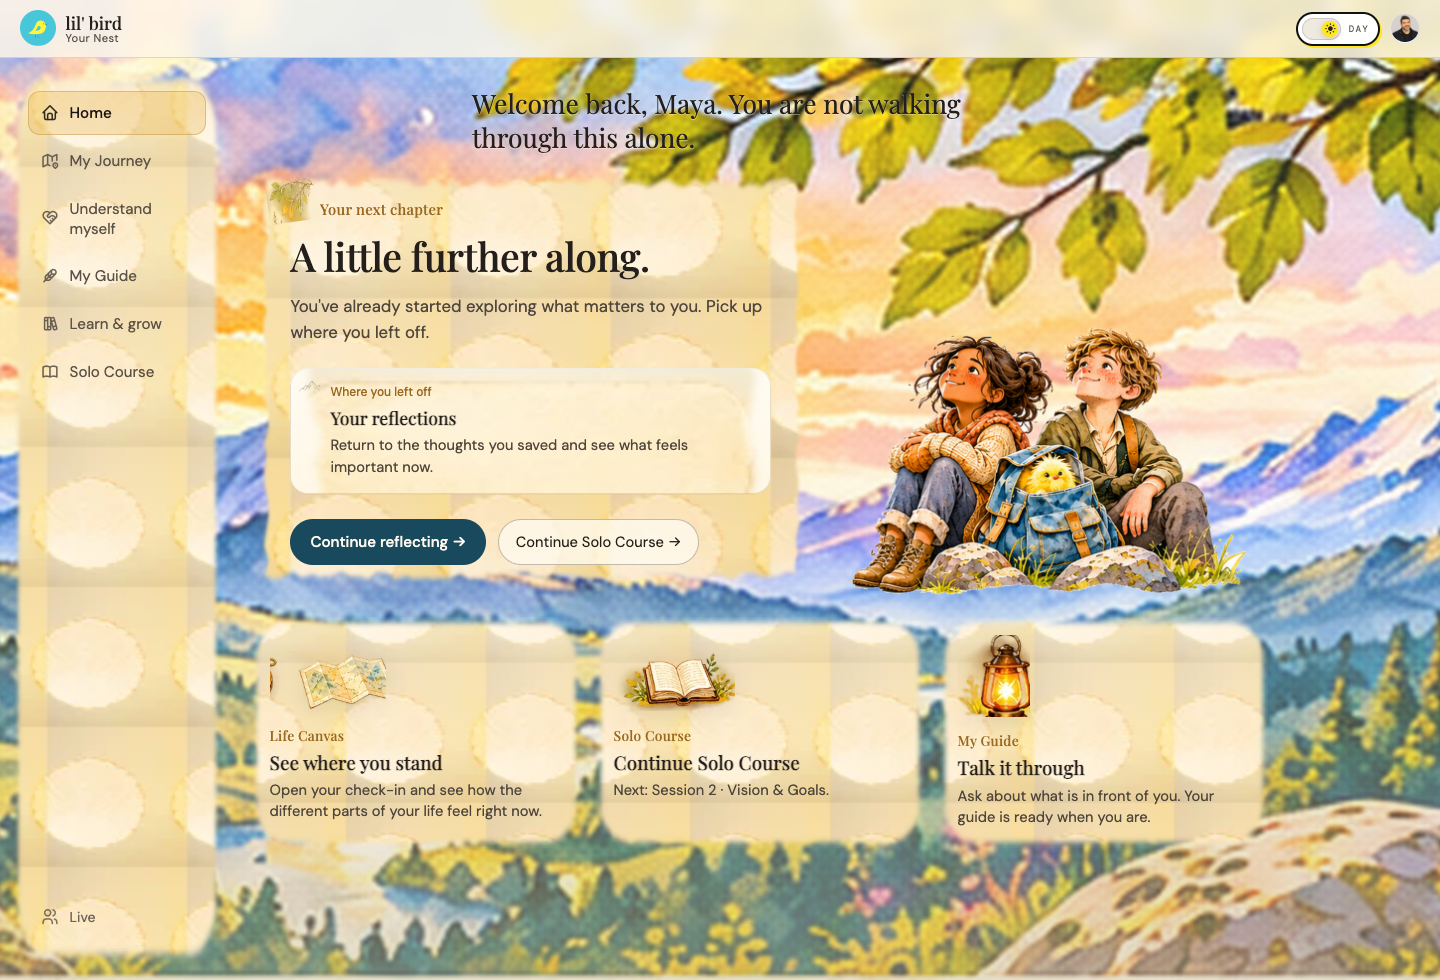
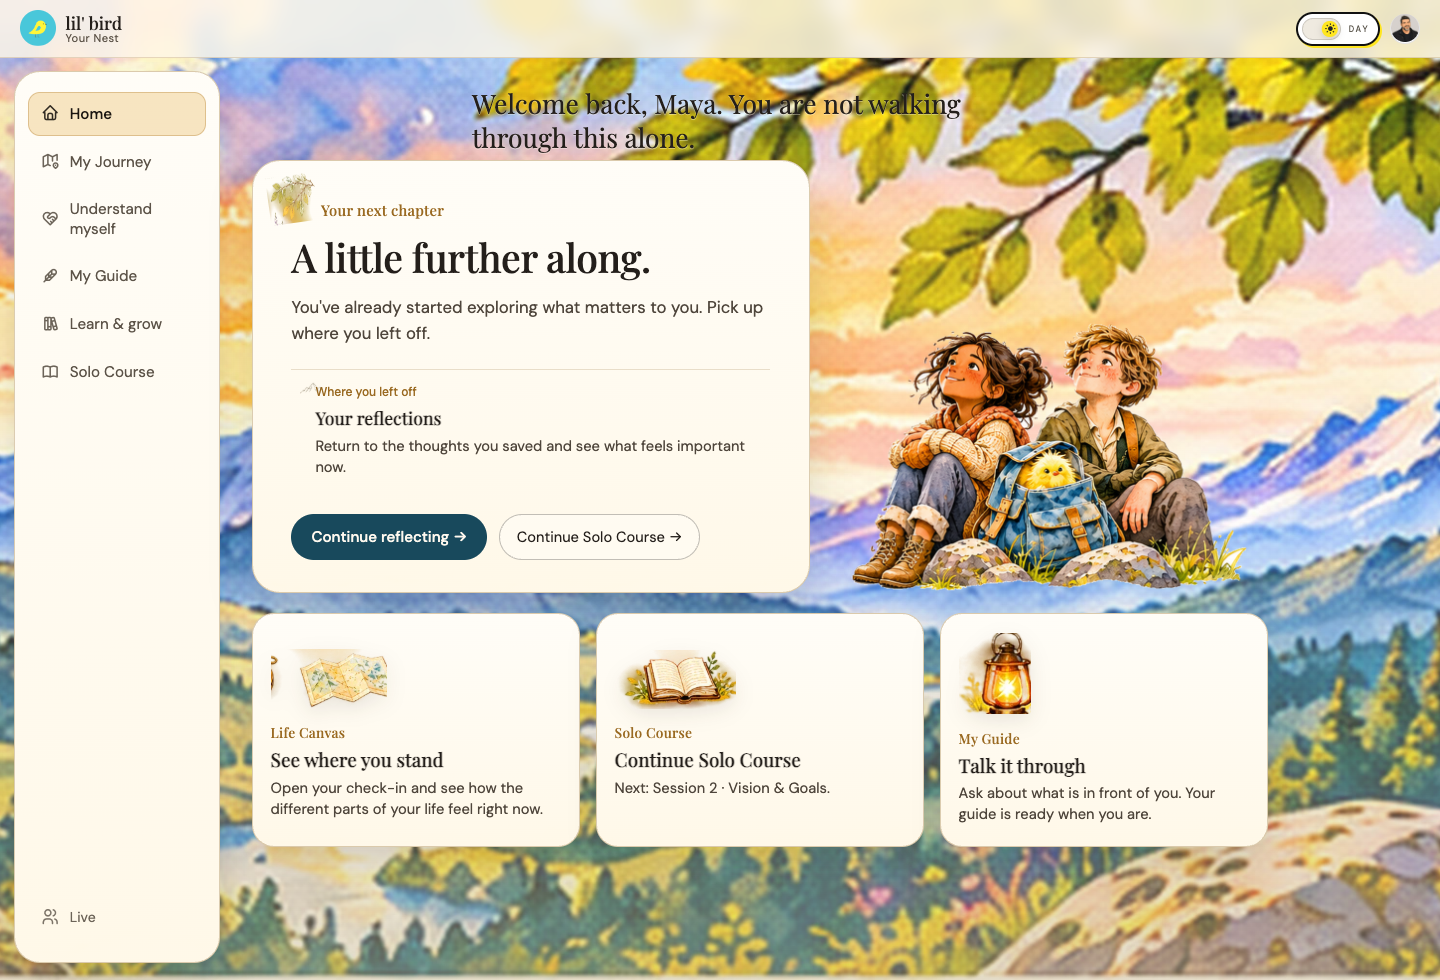
Fix parchment tiling artifacts and mobile landscape gap for Phase 1C.
Stop tiling cream-grain stamps and stretching card masks; use opaque parchment fills with a single paper-sample cover, and size the mobile valley with cover so companions sit in the illustrated world.

diff --git a/css/lilbird-nest-world.css b/css/lilbird-nest-world.css
@@ -8,25 +8,20 @@
   /* Nov 5 replacements — opaque panoramas; companions are separate RGBA cutouts */
   --world-day: url("/nest/assets/lilbird-kit/backgrounds/nest-valley-day.webp");
   --world-night: url("/nest/assets/lilbird-kit/backgrounds/nest-valley-night.webp");
-  --paper-grain: url("/nest/assets/lilbird-kit/textures/cream-grain.webp");
-  --paper-fill: url("/nest/assets/lilbird-kit/textures/cream-grain.webp");
-  --paper-panel-fill: url("/nest/assets/lilbird-kit/textures/paper-sample.webp");
-  --paper-hero: url("/nest/assets/lilbird-kit/panels/parchment-hero-large.webp");
-  --paper-hero-mask: url("/nest/assets/lilbird-kit/panels/parchment-hero-large.webp");
-  --paper-inset: url("/nest/assets/lilbird-kit/panels/parchment-hero-small.webp");
-  --paper-card: url("/nest/assets/lilbird-kit/panels/paper-card-a.webp");
-  --paper-card-b: url("/nest/assets/lilbird-kit/panels/paper-card-b.webp");
-  --paper-card-c: url("/nest/assets/lilbird-kit/panels/paper-card-c.webp");
-  --paper-card-portrait: url("/nest/assets/lilbird-kit/panels/parchment-card-portrait.webp");
-  --paper-rail: url("/nest/assets/lilbird-kit/panels/paper-sidebar-tall.webp");
-  --paper-rail-fill: url("/nest/assets/lilbird-kit/textures/paper-sample.webp");
+  /* cream-grain.webp is a ~57px circular stamp — never tile it as a fill */
   --parchment: #fff8e8;
   --parchment-raised: #fffcf4;
-  --parchment-inset: #fff6e2;
+  --parchment-deep: #f3e4c4;
+  --parchment-inset: #fffaf0;
   --parchment-ink: #241f1b;
   --parchment-muted: #4f463c;
   --parchment-accent: #9a6a22;
-  --parchment-border: rgba(176, 146, 100, 0.5);
+  --parchment-border: rgba(176, 146, 100, 0.45);
+  /* Opaque wash + one cover of paper-sample (never tile cream-grain.webp) */
+  --parchment-grain: url("/nest/assets/lilbird-kit/textures/paper-sample.webp");
+  --parchment-surface:
+    linear-gradient(180deg, rgba(255, 253, 248, 0.94) 0%, rgba(255, 248, 232, 0.9) 100%),
+    var(--parchment-grain);
   --lb-bg: #c9b892;
   --lb-surface: rgba(255, 248, 232, 0.94);
   --lb-surface-raised: rgba(255, 252, 244, 0.97);
@@ -72,16 +67,12 @@ html[data-theme="dark"] .nest-page.nest-world {
   background-size: auto, cover;
 }
 
-/* Soft grain only — no filter “sharpening” of low-res landscape art */
+/* Kill Phase-1 paper-grain overlay entirely in world mode */
 .nest-page.nest-world::before {
-  opacity: 0.14;
-  background-image: var(--paper-grain);
-  background-size: 120px 120px;
-  mix-blend-mode: soft-light;
-}
-html[data-theme="dark"] .nest-page.nest-world::before {
-  opacity: 0.08;
-  mix-blend-mode: soft-light;
+  content: none !important;
+  display: none !important;
+  background: none !important;
+  opacity: 0 !important;
 }
 
 /* ── Decorative world layers ──
@@ -134,39 +125,28 @@ html[data-theme="dark"] .nest-world .nest-greeting {
     0 0 18px rgba(15, 36, 51, 0.55);
 }
 
-/* ── Rail as tall parchment panel ── */
+/* ── Rail: opaque warm parchment body (no tile / no full-card mask) ── */
 .nest-world .nest-rail {
   margin: 0.85rem 0 1.25rem 0.85rem;
-  padding: 1.25rem 0.85rem 1.5rem 0.9rem;
-  border-radius: 0;
-  border: 0;
-  background-color: #fff6e2;
-  background-image:
-    linear-gradient(180deg, rgba(255, 252, 244, 0.35), rgba(255, 244, 220, 0.2)),
-    var(--paper-fill),
-    var(--paper-rail);
-  background-size: auto, 140px 140px, 100% 100%;
-  background-position: center, center, center;
-  background-repeat: no-repeat, repeat, no-repeat;
-  box-shadow: 0 18px 36px rgba(40, 28, 14, 0.16);
+  padding: 1.2rem 0.8rem 1.45rem 0.85rem;
+  border-radius: 26px;
+  border: 1px solid var(--parchment-border);
+  background-color: var(--parchment) !important;
+  background-image: var(--parchment-surface) !important;
+  background-repeat: no-repeat !important;
+  background-size: auto, cover !important;
+  background-position: center, center !important;
+  background-blend-mode: normal, soft-light;
+  box-shadow: 0 16px 34px rgba(40, 28, 14, 0.14);
   height: calc(100vh - 88px);
-  border-right: 0;
+  border-right: 1px solid var(--parchment-border);
   color: var(--parchment-ink);
-  -webkit-mask-image: var(--paper-rail);
-  mask-image: var(--paper-rail);
-  -webkit-mask-size: 100% 100%;
-  mask-size: 100% 100%;
-  -webkit-mask-repeat: no-repeat;
-  mask-repeat: no-repeat;
-  -webkit-mask-position: center;
-  mask-position: center;
+  -webkit-mask-image: none !important;
+  mask-image: none !important;
 }
 html[data-theme="dark"] .nest-world .nest-rail {
-  background-color: #fff4dc;
-  background-image:
-    linear-gradient(180deg, rgba(255, 250, 236, 0.4), rgba(244, 228, 198, 0.28)),
-    var(--paper-fill),
-    var(--paper-rail);
+  background-color: var(--parchment) !important;
+  background-image: var(--parchment-surface) !important;
   color: var(--parchment-ink);
 }
 html[data-theme="dark"] .nest-world .nest-rail .rail-link,
@@ -202,35 +182,23 @@ html[data-theme="dark"] .nest-world .nest-rail .rail-link.dash-tab.active {
   min-height: 0;
   margin: 0;
   padding: clamp(1.55rem, 3.2vw, 2.35rem) clamp(1.45rem, 3vw, 2.4rem) clamp(1.4rem, 2.8vw, 2rem);
-  border-radius: 0;
-  border: 0;
-  background-color: #fff5df;
-  background-image:
-    linear-gradient(160deg, rgba(255, 252, 244, 0.42) 0%, rgba(255, 240, 210, 0.18) 55%, rgba(244, 220, 180, 0.28) 100%),
-    var(--paper-fill),
-    var(--paper-hero);
-  background-size: auto, 160px 160px, 100% 100%;
-  background-position: center, center, center;
-  background-repeat: no-repeat, repeat, no-repeat;
-  box-shadow: 0 22px 44px rgba(40, 28, 14, 0.18);
+  border-radius: 28px;
+  border: 1px solid var(--parchment-border);
+  background-color: var(--parchment) !important;
+  background-image: var(--parchment-surface) !important;
+  background-repeat: no-repeat !important;
+  background-size: auto, cover !important;
+  background-position: center, center !important;
+  background-blend-mode: normal, soft-light;
+  box-shadow: 0 20px 40px rgba(40, 28, 14, 0.15);
   overflow: visible;
   color: var(--parchment-ink);
-  -webkit-mask-image: var(--paper-hero-mask);
-  mask-image: var(--paper-hero-mask);
-  -webkit-mask-size: 100% 100%;
-  mask-size: 100% 100%;
-  -webkit-mask-repeat: no-repeat;
-  mask-repeat: no-repeat;
-  -webkit-mask-position: center;
-  mask-position: center;
+  -webkit-mask-image: none !important;
+  mask-image: none !important;
 }
 html[data-theme="dark"] .nest-world .next-chapter {
-  background-color: #fff2d6;
-  background-image:
-    linear-gradient(160deg, rgba(255, 250, 236, 0.45) 0%, rgba(255, 236, 200, 0.22) 100%),
-    var(--paper-fill),
-    var(--paper-hero);
-  background-size: auto, 160px 160px, 100% 100%;
+  background-color: var(--parchment) !important;
+  background-image: var(--parchment-surface) !important;
   color: var(--parchment-ink);
 }
 
@@ -251,23 +219,16 @@ html[data-theme="dark"] .nest-world .next-chapter {
   padding-left: 1.85rem;
 }
 
-/* Journal inset — soft paper well, not a form field */
+/* Journal inset — ruled note on the same parchment, not a nested SaaS card */
 .nest-world .next-chapter-context {
   position: relative;
   margin: 0.55rem 0 0.2rem;
-  padding: 0.95rem 1.05rem 1rem 1.15rem;
-  background-color: #fffaf0;
-  background-image:
-    linear-gradient(180deg, rgba(255, 252, 244, 0.55), rgba(255, 243, 214, 0.35)),
-    var(--paper-inset);
-  background-size: auto, cover;
-  background-position: center;
+  padding: 0.85rem 0.35rem 0.7rem 0.15rem;
+  background: transparent;
   border: 0;
-  border-radius: 18px;
-  box-shadow:
-    inset 0 1px 0 rgba(255, 255, 255, 0.55),
-    inset 0 0 0 1px rgba(176, 146, 100, 0.28),
-    0 1px 0 rgba(90, 60, 20, 0.04);
+  border-top: 1px solid rgba(176, 146, 100, 0.28);
+  border-radius: 0;
+  box-shadow: none;
   color: var(--parchment-ink);
 }
 .nest-world .next-chapter-context::before {
@@ -354,41 +315,30 @@ html[data-theme="dark"] .nest-companions-night { display: block; }
   gap: 1rem;
 }
 .nest-world .nest-secondary-card {
-  --card-panel: var(--paper-card);
   position: relative;
   padding: 1.15rem 1.1rem 1.25rem;
-  border-radius: 0;
-  border: 0;
-  background-color: #fff5df;
-  background-image:
-    linear-gradient(180deg, rgba(255, 252, 244, 0.4), rgba(255, 240, 210, 0.22)),
-    var(--paper-fill),
-    var(--card-panel);
-  background-size: auto, 140px 140px, 100% 100%;
-  background-position: center, center, center;
-  background-repeat: no-repeat, repeat, no-repeat;
-  box-shadow: 0 14px 32px rgba(40, 28, 14, 0.14);
+  border-radius: 22px;
+  border: 1px solid var(--parchment-border);
+  background-color: var(--parchment) !important;
+  background-image: var(--parchment-surface) !important;
+  background-repeat: no-repeat !important;
+  background-size: auto, cover !important;
+  background-position: center, center !important;
+  background-blend-mode: normal, soft-light;
+  box-shadow: 0 12px 28px rgba(40, 28, 14, 0.12);
   overflow: visible;
   color: var(--parchment-ink);
-  -webkit-mask-image: var(--card-panel);
-  mask-image: var(--card-panel);
-  -webkit-mask-size: 100% 100%;
-  mask-size: 100% 100%;
-  -webkit-mask-repeat: no-repeat;
-  mask-repeat: no-repeat;
+  -webkit-mask-image: none !important;
+  mask-image: none !important;
 }
-.nest-world .nest-secondary-card[data-kind="canvas"] { --card-panel: var(--paper-card); }
-.nest-world .nest-secondary-card[data-kind="solo"] { --card-panel: var(--paper-card-b); }
-.nest-world .nest-secondary-card[data-kind="guide"] { --card-panel: var(--paper-card-c); }
-.nest-world .nest-secondary-card[data-kind="membership"] { --card-panel: var(--paper-card-portrait); }
+.nest-world .nest-secondary-card[data-kind="solo"],
+.nest-world .nest-secondary-card[data-kind="guide"] {
+  background-image: var(--parchment-surface) !important;
+}
 
 html[data-theme="dark"] .nest-world .nest-secondary-card {
-  background-color: #fff2d6;
-  background-image:
-    linear-gradient(180deg, rgba(255, 250, 236, 0.42), rgba(244, 228, 198, 0.28)),
-    var(--paper-fill),
-    var(--card-panel);
-  background-size: auto, 140px 140px, 100% 100%;
+  background-color: var(--parchment) !important;
+  background-image: var(--parchment-surface) !important;
   color: var(--parchment-ink);
 }
 .nest-world .nest-secondary-card > .nest-secondary-link,
@@ -482,9 +432,29 @@ html[data-theme="dark"] .nest-world .mobile-bar-link.is-active {
 /* ── Mobile: compact chapter, companions in their own band, reachable cards ── */
 @media (max-width: 980px) {
   .nest-page.nest-world {
+    /* cover = fill full scroll height; 140% auto only painted a short top strip */
     background-attachment: scroll;
-    background-size: auto, auto 52vh;
-    background-position: center top, center top;
+    background-image:
+      linear-gradient(180deg, rgba(247, 241, 230, 0.05) 0%, rgba(247, 241, 230, 0.18) 55%, rgba(185, 165, 122, 0.35) 100%),
+      var(--world-day);
+    background-size: auto, cover;
+    background-position: center top, center 20%;
+    background-repeat: no-repeat, no-repeat;
+    background-color: #8f7a52;
+  }
+  html[data-theme="dark"] .nest-page.nest-world {
+    background-image:
+      linear-gradient(180deg, rgba(15, 36, 51, 0.1) 0%, rgba(15, 36, 51, 0.4) 60%, rgba(15, 36, 51, 0.62) 100%),
+      var(--world-night);
+    background-color: #0a1a24;
+    background-size: auto, cover;
+    background-position: center top, center 24%;
+  }
+  .nest-world .nest-home-block,
+  .nest-world .nest-dash,
+  .nest-world .nest-home-stage,
+  .nest-world #view-dashboard {
+    background: transparent !important;
   }
   .nest-world .nest-rail { display: none; }
 
@@ -620,7 +590,12 @@ html[data-theme="dark"] .nest-world .mobile-bar-link.is-active {
 
 @media (max-width: 560px) {
   .nest-page.nest-world {
-    background-size: auto, auto 44vh;
+    background-size: auto, cover;
+    background-position: center top, center 14%;
+  }
+  html[data-theme="dark"] .nest-page.nest-world {
+    background-size: auto, cover;
+    background-position: center top, center 18%;
   }
   .nest-companions-stage img {
     width: min(78vw, 260px);

diff --git a/nest/index.html b/nest/index.html
@@ -26,7 +26,7 @@
   <link rel="stylesheet" href="./nest-tour.css?v=3" />
   <link rel="stylesheet" href="/css/lilbird-nest-theme.css?v=20260917m" />
   <link rel="stylesheet" href="/css/lilbird-nest-redesign.css?v=20261105p1" />
-  <link rel="stylesheet" href="/css/lilbird-nest-world.css?v=20261105c2" />
+  <link rel="stylesheet" href="/css/lilbird-nest-world.css?v=20261105c5" />
   <!-- Google Tag Manager -->
   <script src="/lilbird-gtm-id.js"></script>
   <script src="/lilbird-gtm.js"></script>

diff --git a/nest/phase1b-world-fixture.html b/nest/phase1b-world-fixture.html
@@ -15,7 +15,7 @@
   <link rel="stylesheet" href="./nest-styles.css?v=50" />
   <link rel="stylesheet" href="/css/lilbird-nest-theme.css?v=20260917m" />
   <link rel="stylesheet" href="/css/lilbird-nest-redesign.css?v=20261105p1" />
-  <link rel="stylesheet" href="/css/lilbird-nest-world.css?v=20261105c2" />
+  <link rel="stylesheet" href="/css/lilbird-nest-world.css?v=20261105c5" />
   <style>
     .fixture-banner {
       position: sticky; top: 0; z-index: 60;

diff --git a/nest/visual-redesign-audit/PHASE1C-CARD-SYSTEM.md b/nest/visual-redesign-audit/PHASE1C-CARD-SYSTEM.md
@@ -3,39 +3,47 @@
 **Branch:** `nest/phase1b-illustrated-world` (PR #41)  
 **Status:** Visual review — **do not merge.**
 
+## Parchment artifact root cause (confirmed)
+
+1. **`textures/cream-grain.webp` is a 57×70 circular stamp**, not a seamless tile. Phase 1C tiled it (`background-repeat: repeat` at 140–160px) as `--paper-fill` on the rail, chapter, and secondary cards → pale polka-dot grid + seams.
+2. **Full-card CSS masks** stretched fixed panel alphas (`parchment-hero-large`, `paper-card-*`, `paper-sidebar-tall`) beyond intended proportions, soft-masking interiors and letting landscape show through as rectangular transparency patches.
+3. **Page `::before`** also tiled the same cream-grain stamp over the Nest shell.
+4. **Mobile flat beige band:** `background-size: 140% auto` sized the valley panorama to ~viewport width with height from aspect ratio (~144px), so only a short top strip painted; the rest of the scroll filled with solid `background-color`.
+
+**Correction:** Removed all cream-grain tiling and full-card masks. Cards/rail use opaque warm parchment fills + a single `paper-sample.webp` cover grain (soft-light, no repeat). Deckled panel images are no longer used as scalable masks. Corner leaf accents remain as separate artwork. Mobile landscape uses `background-size: cover` so companions sit in the painted world.
+
 ## Asset audit (what the kit already had)
 
 ### Used now for cards
 | Role | Asset | Notes |
 | --- | --- | --- |
-| Chapter silhouette + fill | `panels/parchment-hero-large.webp` | Deckled organic edges via CSS mask |
-| Chapter paper grain | `textures/paper-sample.webp` | Warm tonal wash under content |
-| Context inset paper | `panels/parchment-hero-small.webp` | Soft journal well |
+| Card / rail body fill | CSS `#fff8e8` + soft vertical wash | Opaque; no mask |
+| Subtle paper grain | `textures/paper-sample.webp` | Single `cover` layer, soft-light blend — **never** `cream-grain.webp` |
 | Context leaf mark | `icons/leaf-mini.webp` | Marks “Where you left off” |
 | Chapter corner botanical | `accents/golden-leaf-sprig.webp` | Top-left, concept #3 placement |
 | Life Canvas art | `icons/folded-map-watercolor.webp` | Prominent destination illustration |
 | Solo Course art | `icons/open-book-watercolor.webp` | Prominent destination illustration |
 | My Guide art | `icons/lantern-watercolor.webp` | Larger lantern focal |
 | Nest / membership art | `icons/nest-watercolor.webp` | Non-owner third card |
-| Secondary panels | `panels/paper-card-a/b/c.webp` | Distinct panel per card kind |
-| Membership panel | `panels/parchment-card-portrait.webp` | Alternate portrait parchment |
-| Rail panel | `panels/paper-sidebar-tall.webp` + `textures/paper-sample.webp` | Tall parchment mask |
+| Valley / companions | `backgrounds/nest-valley-*.webp`, companion cutouts | Full-bleed world + staged characters |
+
+### Intentionally unused as full-card masks (do not stretch)
+- `panels/parchment-hero-large.webp`, `paper-card-a/b/c.webp`, `paper-sidebar-tall.webp`, `parchment-card-portrait.webp`
+- `textures/cream-grain.webp` — circular stamp; never tile
 
 ### Available but still unused (optional future polish)
 - `panels/parchment-hero-horizontal.webp`, `paper-wide.webp` — alternate chapter frames
-- `botanicals/branch-gold.webp`, `branch-olive.webp`, `pale-leaves.webp` — extra corner flora (pale-leaves has dark plate/halo; needs cleanup before use)
-- `accents/ink-feather.webp`, `nest-eggs.webp`, `wayfinder-sign.webp` — accents (wayfinder previously collided with CTAs)
-- `icons/mountains-watercolor.webp`, `winding-trail.webp`, `compass-watercolor.webp` — alternate Life Canvas motifs
-- Dedicated 9-slice / corner-only deckle strips — **missing**; flexible cards must stretch fixed panel masks
+- Dedicated 9-slice / corner-only deckle strips — **missing**; flexible cards must not stretch fixed panel masks
+- `botanicals/*`, extra accents — optional after cleanup
 
 ### Missing / limitations to report
-1. **No true responsive deckled border kit** (corner pieces or 9-slice). Organic edges come from stretching fixed panel alphas.
-2. **No dedicated “journal inset” panel** beyond small parchment samples — context well is composed from `parchment-hero-small` + CSS.
-3. Icon sheets still carry **soft extraction glow** on black; inspected at Nest sizes and acceptable for review.
+1. **No true responsive deckled border kit** (corner pieces or 9-slice). Organic edges are deferred until corner art exists.
+2. Context well is a ruled note on the same parchment (leaf mark + top rule), not a nested card.
+3. Icon sheets still carry soft extraction glow; inspected at Nest sizes and acceptable for review.
 
 ## Composition changes
 - Desktop: chapter + companions side-by-side; companions remain a major right-side anchor
-- Mobile: companions occupy their **own band** between chapter and secondary cards — **no negative-margin overlap / head clipping**
+- Mobile: companions occupy their **own band** between chapter and secondary cards — **no negative-margin overlap / head clipping**; landscape continues behind them via `cover`
 - Day and night share the same warm parchment card language
 
 ## Screenshots
